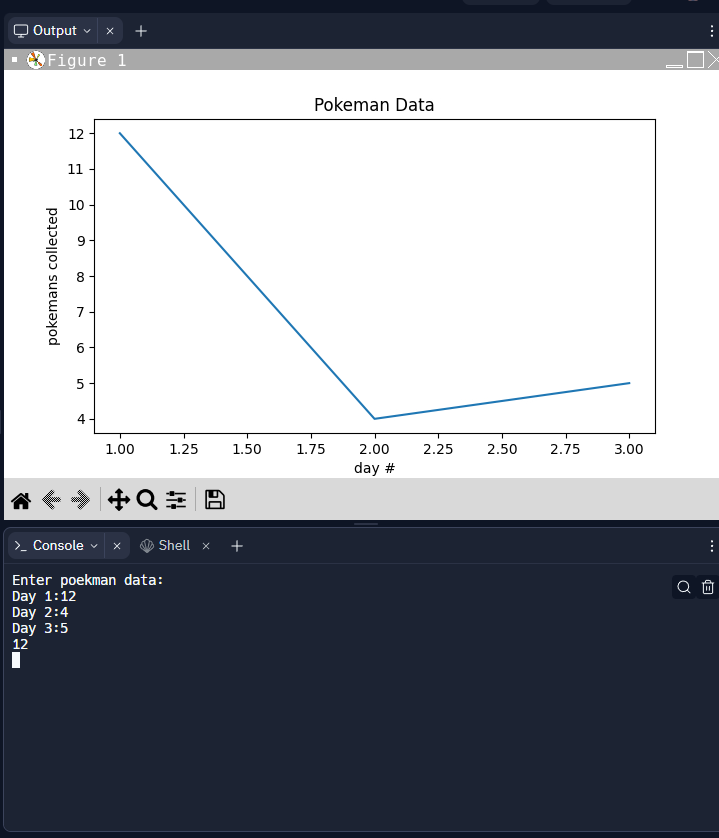
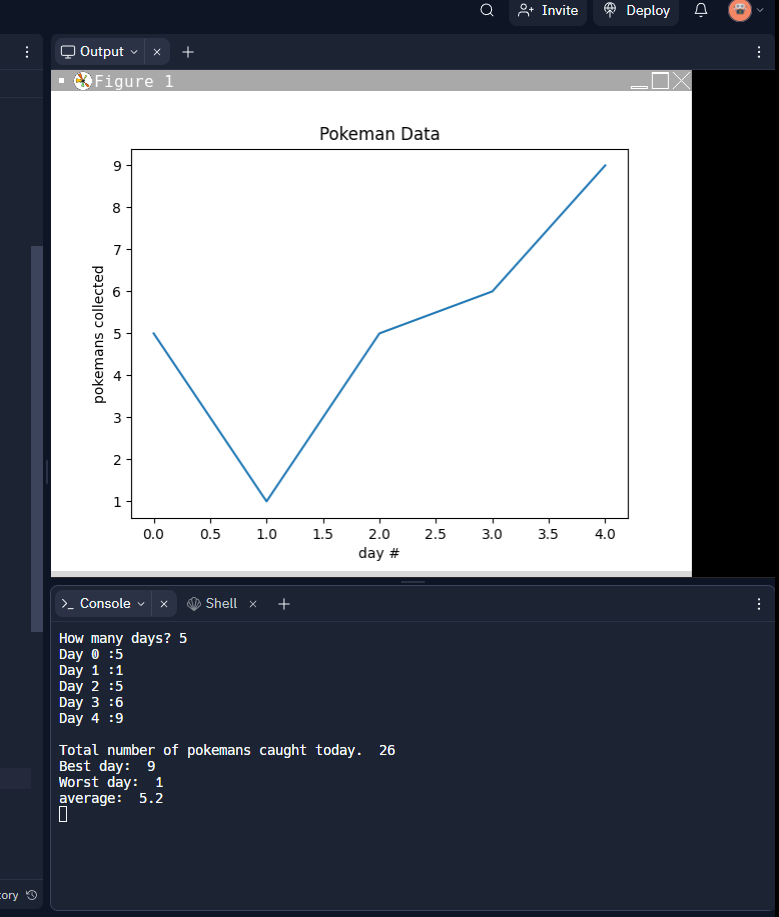
Add files via upload
pokemon

diff --git a/P1T2_Julian_Carr.py b/P1T2_Julian_Carr.py
@@ -1,0 +1,55 @@
+import matplotlib.pyplot as plt
+
+
+"""
+# Collect data
+print("Enter poekman data:")
+print("Day 1:", end="")
+day1 = int(input())
+print("Day 2:", end="")
+day2 = int(input())
+print("Day 3:", end="")
+day3 = int(input())
+
+# Put the data in a list
+data = [day1, day2, day3]
+
+print()
+total = sum(data)
+print("The total number of pokeman caught", total)
+
+MX = max(data)
+print("Highest number of pokemans caught today", MX)
+
+MN = min(data)
+print("Least amout of pokemans caught today", MN)
+"""
+#New version - loop and get each day at a time
+data = [] #empty list
+num_days = int(input("How many days? "))
+for day in range(num_days):
+  print("Day", day, ":", end="")
+  today = int(input())
+  data.append(today) # add it to the end of the list
+
+# print min, max, and total
+print()
+total = sum(data)
+print("Total number of pokemans caught today. ", total)
+
+MX = max(data)
+print("Best day: ", MX)
+
+MN = min(data)
+print("Worst day: ", MN)
+
+avg = total / num_days
+print("average: ", avg)
+#put the data in a list (DONE)
+
+fig, ax = plt.subplots()
+ax.plot(range(num_days), data)
+plt.title("Pokeman Data")
+plt.xlabel('day #')
+plt.ylabel('pokemans collected')
+plt.show()
